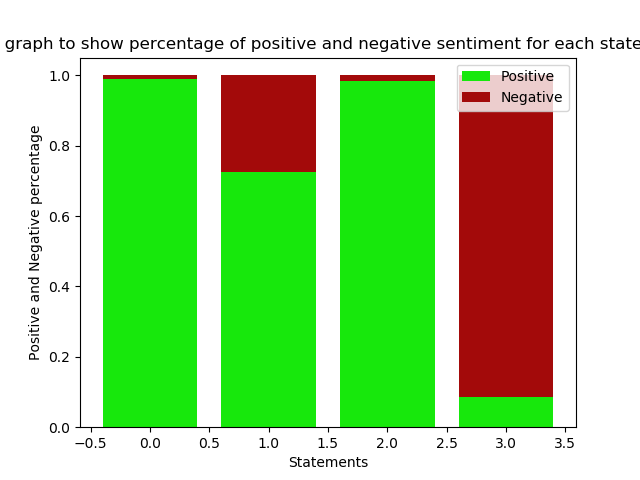
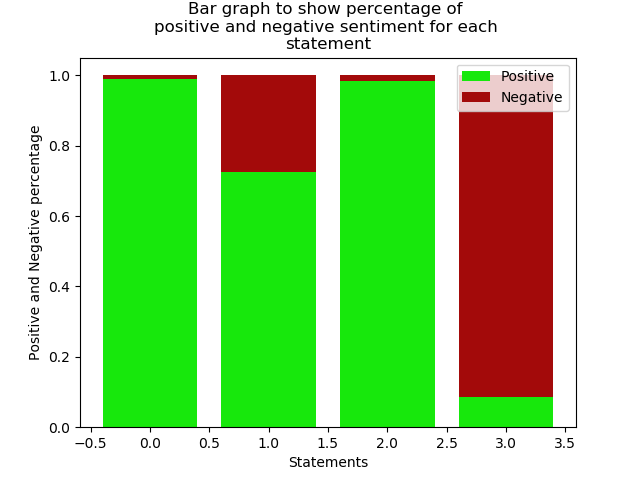
some formatting done

Changed region(s): [[0.0, 0.0, 1.0, 0.125]]

diff --git a/actual_gui.py b/actual_gui.py
@@ -24,7 +24,7 @@ s = """We provide you with two options here.
 
 Option 1 : You can either enter a statement and we will guess if the statement is positive or negative.
 
-Option 2 : You can provide the path of a file and we will analyze the number of positive and negative statements.
+Option 2 : You can upload a file and we will analyze the sentiment of the statements.
 """
 intro_font = font.Font(family='Helvetica', size=25, weight='bold', slant='italic', underline='1')
 intro = Label(root, text=txt, fg="#FFFFFF", height="3", bg="#072d2e")
@@ -56,7 +56,7 @@ def single(statement, my_frame2):
     s = "\"" + statement + " \""
     ls = Label(my_frame2, text=s, bg="#85eaed")
     ls['font'] = info_font
-    ls.pack()
+    ls.pack(fill=X)
     l_space2 = Label(my_frame2, text='\n', bg="#85eaed")
     l_space2.pack(fill=X)
     # img_single=ImageTk.PhotoImage(Image.open("Images\\pie_chart_single.png"))
@@ -111,7 +111,7 @@ def dataset_predict(dataset_path,my_frame2):
     reviews = pd.read_csv(dataset_path)
     predictions = []
     positive=[]
-    plt.title('Bar graph to show percentage of positive and negative sentiment for each statement')
+    plt.title('Bar graph to show percentage of \npositive and negative sentiment for each \nstatement')
     for index,row in reviews.iterrows():
         current_review = row['Reviews']
         predicted_value = loaded_model.predict(current_review)
@@ -172,8 +172,8 @@ def submit():
         bb1 = Button(my_frame1, text="Submit for testing", command=lambda: single(predict_result(ee1), my_frame2))
         bb1.pack()
 
-        lspace3 = Label(my_frame1, text='\n', bg="#85eaed")
-        lspace3.pack(fill=X)
+        lspace3 = Label(my_frame1, text='\n')
+        lspace3.pack()
 
         exit = Button(top1, text="Exit", command=top1.quit)
         exit.pack()
@@ -185,33 +185,33 @@ def submit():
         top2 = Toplevel()
         top2.iconbitmap("Images\\LOGO.ico")
         my_notebook=ttk.Notebook(top2)
-        my_frame1=ttk.Frame(my_notebook,width=500,height=500)
-        my_frame2=ttk.Frame(my_notebook,width=500,height=500)#,bg='#85eaed'
+        my_frame1=ttk.Frame(my_notebook)#,width=500,height=500
+        my_frame2=ttk.Frame(my_notebook)#,bg='#85eaed'
         my_notebook.add(my_frame1,text="Upload")
         my_notebook.add(my_frame2,text="Result")
         my_notebook.pack(pady=15)
-        s2 = Label(top2, text='\n', bg="#85eaed")
-        s2.pack(fill=X)
+        # s2 = Label(top2, text='\n', bg="#85eaed")
+        # s2.pack(fill=X)
         l1 = Label(my_frame1, text="You selected " + str(c), bg="#85eaed", fg="#072d2e")
         l1['font'] = font.Font(family='Helvetica', size=20, weight='bold')
-        l1.pack()
+        l1.pack(fill=X)
 
         lspace1 = Label(my_frame1, text='\n', bg="#85eaed")
         lspace1.pack(fill=X)
 
         upload = Label(my_frame1, text="Upload file", bg="#85eaed")
         upload['font'] = info_font
-        upload.pack()
-        l_space = Label(my_frame1, text='\n', bg="#85eaed")
+        upload.pack(fill=X)
+        l_space = Label(my_frame1, text='\n')
         l_space.pack()
         
         open_file = Button(my_frame1, text='Open file', command=get_path).pack()
-        l_space1 = Label(my_frame1, text='\n', bg="#85eaed")
+        l_space1 = Label(my_frame1, text='\n')
         l_space1.pack()
 
         bb2 = Button(my_frame1, text="Submit for testing", command=lambda : dataset_predict(dataset_path,my_frame2))
         bb2.pack()
-        l_space2 = Label(my_frame1, text='\n', bg="#85eaed")
+        l_space2 = Label(my_frame1, text='\n')
         l_space2.pack()
         
         exit = Button(top2, text="Exit", command=top2.quit)
